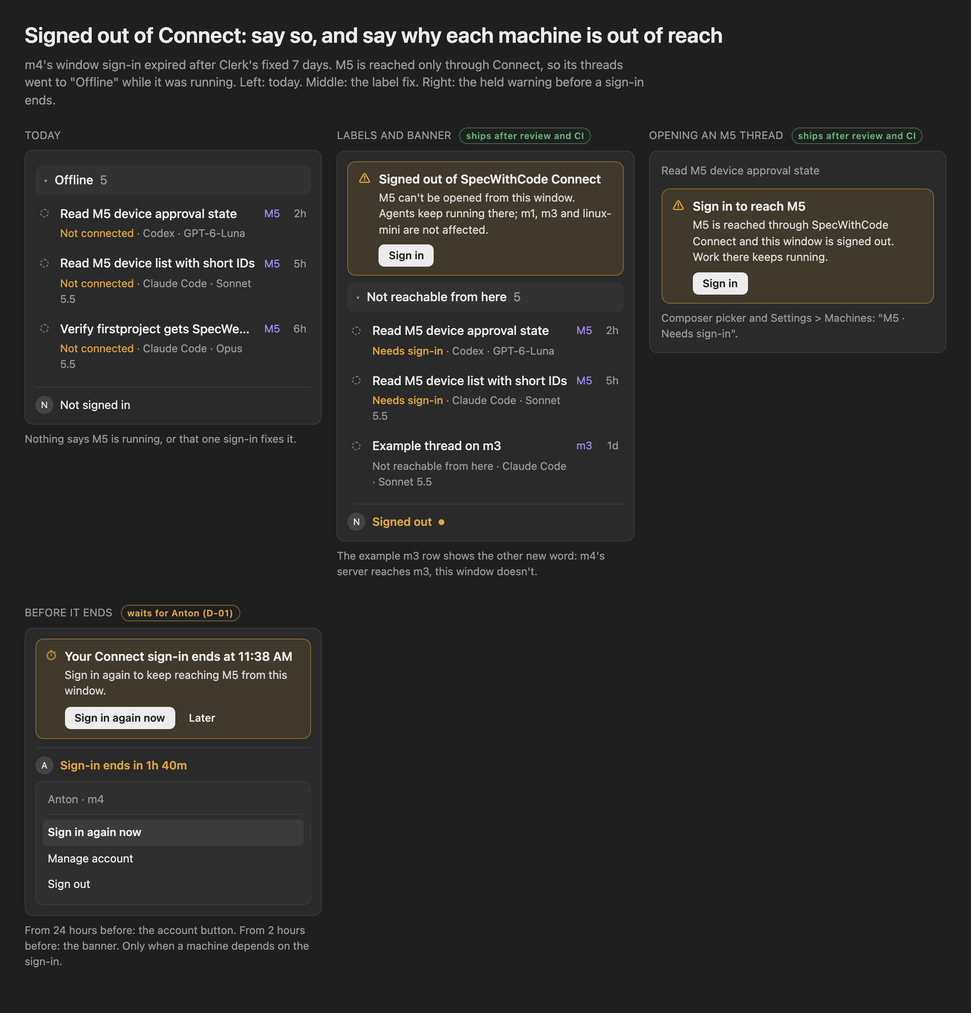
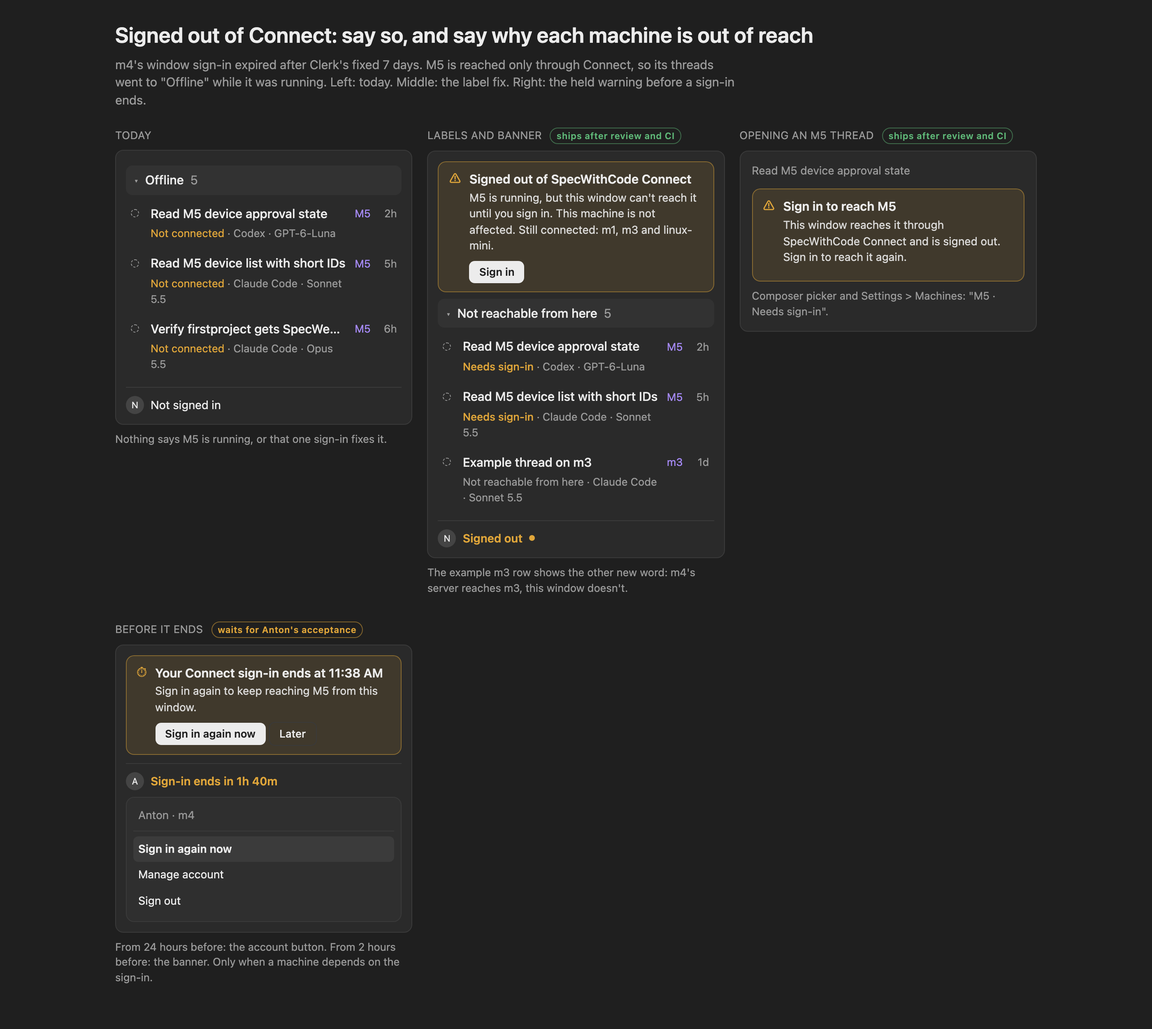
1417: answer spec review round 1, tasks 1-4 done

diff --git a/.specweave/increments/1417-signed-out-of-connect-say-so-warn-before-it-ends-and-label-machines-by-the-real-reason/mockups/signed-out.html b/.specweave/increments/1417-signed-out-of-connect-say-so-warn-before-it-ends-and-label-machines-by-the-real-reason/mockups/signed-out.html
@@ -85,7 +85,7 @@
           <span class="ic">⚠</span>
           <div>
             <b>Signed out of SpecWithCode Connect</b>
-            <p>M5 can't be opened from this window. Agents keep running there; m1, m3 and linux-mini are not affected.</p>
+            <p>M5 is running, but this window can't reach it until you sign in. This machine is not affected. Still connected: m1, m3 and linux-mini.</p>
             <span class="btn">Sign in</span>
           </div>
         </div>
@@ -106,8 +106,7 @@
           <span class="ic">⚠</span>
           <div>
             <b>Sign in to reach M5</b>
-            <p>M5 is reached through SpecWithCode Connect and this window is signed out. Work there keeps running.</p>
-            <span class="btn">Sign in</span>
+            <p>This window reaches it through SpecWithCode Connect and is signed out. Sign in to reach it again.</p>
           </div>
         </div>
         <div class="note">Composer picker and Settings &gt; Machines: "M5 · Needs sign-in".</div>
@@ -115,7 +114,7 @@
     </figure>
 
     <figure class="held">
-      <figcaption>Before it ends <span class="tag wait">waits for Anton (D-01)</span></figcaption>
+      <figcaption>Before it ends <span class="tag wait">waits for Anton's acceptance</span></figcaption>
       <div class="pane">
         <div class="banner" role="status">
           <span class="ic">⏱</span>

diff --git a/.specweave/increments/1417-signed-out-of-connect-say-so-warn-before-it-ends-and-label-machines-by-the-real-reason/spec.md b/.specweave/increments/1417-signed-out-of-connect-say-so-warn-before-it-ends-and-label-machines-by-the-real-reason/spec.md
@@ -6,59 +6,106 @@ On November 18, 2026 at 11:38 AM the m4 window lost its SpecWithCode Connect sig
 
 What happened, from Clerk's records and the window's traces (`reports/2026-11-18-signout-findings.md`):
 
-1. **Expiry, not a sign-out, revoke, update or device-approval change.** The window's Clerk session was created November 11 at 11:38:00 AM and ended at 11:38:00 AM today with status `expired`. Every session on the instance has `expire_at = created + 7 days`: the Hobby plan's fixed maximum lifetime. The account has no `ended`, `revoked` or `removed` sessions, so `ConnectSessionGuard`'s `signOut()`, a device removal (1406, 1416) and the 1.0.357 update did not end it. Short-lived tokens refresh silently today; nothing can stretch a session past its maximum lifetime.
-2. **Why only M5.** 22 seconds after expiry (11:38:22 AM) the window's attempt to M5 was refused with `ConnectionBlockedError{reason:"authentication"}`, "Your cloud sign-in changed. Sign in again to authorize the environment." M5 is reached from this window only through the Connect relay (`RelayConnectionTarget`). m1, m3 and linux-mini are also saved with a direct paired route (`BearerConnectionTarget`, a stored credential over Tailscale or the LAN), which needs no Connect sign-in. It is not the `identity-mismatch` pattern.
-3. **Why "Offline / Not connected".** A blocked connection stops retrying, its phase becomes `error`, its reach state `stopped`, and `hostDownWord` maps `stopped` to "Not connected". The Threads panel groups every down host's threads under "Offline". Nothing on the row says the fix is one sign-in.
-4. **It will happen again every week on every window.** The account has 11 more Electron window sessions; one ends today at 2:43 PM and five on November 19. Each window signs out on its own 7-day clock.
+1. **Expiry, by strong inference.** No trace names the window's Clerk session, so this is inference, not proof. The session that fits is `sess_3Ly8jIf9…`: created November 11 at 11:38:00 AM, `expired` at 11:38:00 AM today, last active 11:32:51 AM. M5 RPCs succeed until 11:36:38 AM, and the refusal lands at 11:38:22 AM. Every session on the instance has `expire_at = created + 7 days`: the Hobby plan's fixed maximum lifetime. The account has no `ended`, `revoked` or `removed` sessions. That rules out `ConnectSessionGuard`'s `signOut()`, assuming Clerk records a programmatic sign-out as `ended`. It also rules out a device removal (1406, 1416) and the 1.0.357 update. Two sessions stay unexplained:
+   - a second Mac Electron session (`sess_3Ly8j3on…`, last active 8:50 AM) expired two seconds earlier;
+   - a new Mac Electron session (`sess_3MHuSLYz…`) signed in at 11:36:52 AM and was last active at 11:38:21 AM. It is not this window, which stayed signed out. Which window it is remains unknown.
+2. **The 22 seconds.** Clerk noticed the expiry on its next token refresh and flipped the window to signed out. `ManagedRelayAuthProvider` then cleared the relay account, which emits `credentials-changed`. The supervisor replaced the live relay lease (`supervisor.ts:704`), and the new attempt was refused with `ConnectionBlockedError{reason:"authentication"}`: "Your cloud sign-in changed. Sign in again to authorize the environment."
+3. **Why only M5.** M5 is reached from this window only through the Connect relay (`RelayConnectionTarget`). m1, m3 and linux-mini are also saved with a direct paired route (`BearerConnectionTarget`, a stored credential over Tailscale or the LAN), which needs no Connect sign-in. A learned bearer route can also borrow the Connect credential (`authorization: "studio-connect"`, `routes.ts:248`) and dies with the session the same way. It is not the `identity-mismatch` pattern.
+4. **Why "Offline / Not connected".** A blocked connection stops retrying, its phase becomes `error`, its reach state `stopped`, and `hostDownWord` maps `stopped` to "Not connected". The Threads panel groups every down host's threads under "Offline". Nothing on the row says the fix is one sign-in.
+5. **It will happen again every week on every window.** The account has 11 more active Electron window sessions; one ends today at 2:43 PM and four on November 19. Each window signs out on its own 7-day clock.
 
-Side findings, handed to their owners: linux-mini is `grant_revoked` in the fleet yet the window still connects by bearer (device trust, 1416); one of m1's saved bearer routes fails with "The environment credential is invalid." every attempt while another works; the window's first relay attempt at start can be refused with "sign-in changed" for about one second before the session activates.
+Side findings, handed to their owners:
+- linux-mini is `grant_revoked` in the fleet, yet the window still connects by bearer (device trust, 1416).
+- One of m1's saved bearer routes fails with "The environment credential is invalid." on every attempt, while another works.
+- At start, the window's first relay attempt is refused with "sign-in changed" for about a second, before Clerk hands the session to the relay client (AC-02 keeps that from reading as a sign-out).
 
 ## Scope
 
 In:
 
 1. **Labels (ship after review and green CI).** Every place that names a machine's state says the real reason: needs sign-in, not reachable from here, offline. A banner says the window is signed out and what that breaks, with a Sign in button.
-2. **Session behaviour (needs Anton's acceptance before release).** A warning before a sign-in ends with a one-click renew, no silent sign-out by `ConnectSessionGuard`, and the Clerk lifetime decision (D-01).
+2. **Session behaviour (needs Anton's acceptance before release).** A warning before a sign-in ends, a one-click renew, and no silent sign-out by `ConnectSessionGuard`. The lifetime stays Clerk's free 7 days (D-01).
 
-Out: device approval and the device list (1416); "Needs you" and blocked thread labels (1412); the Settings > Connect machine list `CloudEnvironmentConnectList.tsx` (1416 edits it); retry behaviour of any connection; re-pairing m1's stale route; letting a window reach relay-only machines through its own machine's Connect link (D-01 option C, a separate increment if chosen).
+Out:
+- Device approval and the device list (1416).
+- "Needs you" and blocked thread labels (1412).
+- The Settings > Connect machine list `CloudEnvironmentConnectList.tsx` (1416 edits it).
+- Retry behaviour and route choice of any connection, including a machine whose direct route only times out (see AC-02).
+- Re-pairing m1's stale route.
+- The phone apps: `apps/mobile` sets the flag (shared refusal code) but shows no new words. Phones get the same 7 days; that is a separate increment.
+- The CLI's OAuth credential and the server's environment link.
+- Letting a window reach relay-only machines through its own machine's Connect link (D-01 option C, a separate increment if chosen).
 
 ## Acceptance Criteria
 
 ### Labels
 
-- [ ] AC-01: A connection refused because this window has no Connect sign-in carries a structured flag (`connectSignInRequired` on `ConnectionBlockedError` and on the connection presentation), set only where the Connect session is missing, unavailable or changed. A machine's own credential refusal (m1's "environment credential is invalid", a revoked pairing, a reapproval) never sets it. No retry, backoff or route choice changes.
-- [ ] AC-02: A thread row, thread link chip and project thread card on a machine down for that reason read **Needs sign-in** instead of "Not connected" or "Host offline".
-- [ ] AC-03: A down machine that this machine's server reaches (the fleet snapshot says `reachable`) and that does not need a sign-in reads **Not reachable from here** instead of "Not connected", "Not answering" or "Host offline". With no fleet snapshot, today's words stay.
-- [ ] AC-04: Priority when several apply: "Different machine at address", then "Needs sign-in", then "Not reachable from here", then today's reach words. "No network" on this device keeps its own words.
-- [ ] AC-05: The Threads panel group that holds unreachable machines' threads is headed **Not reachable from here** instead of "Offline". Its key, order and collapse state stay the same.
-- [ ] AC-06: The chat banner of a thread on a machine that needs sign-in reads "Sign in to reach {machine}" with the line "{machine} is reached through SpecWithCode Connect and this window is signed out. Work there keeps running." The composer's machine picker and Settings > Machines say "Needs sign-in" for it.
-- [ ] AC-07: When this window is signed out and at least one saved machine needs sign-in, a banner at the top of the Threads panel says "Signed out of SpecWithCode Connect", names the machines it cuts off ("M5 can't be opened from this window"), says what still works ("Agents keep running there; m1, m3 and linux-mini are not affected" when those are connected), and has a **Sign in** button that opens the existing sign-in. With nothing cut off, no banner shows: Connect stays optional.
+- [ ] AC-01: A connection refused because this window has no Connect session carries a structured flag (`connectSignInRequired` on `ConnectionBlockedError` and on the connection presentation). It is set only when the window has no Connect session at refusal time: the cloud identity is `None`, or there is no Clerk token. These never set it:
+  - an account switch (the identity is another account's);
+  - a relay refusal of a token (`RelayAuthInvalidError`, proof expiry), which can mean a wrong account or a server fault. When the session has really ended, Clerk flips to signed out within one refresh and the next attempt is flagged;
+  - a machine's own credential refusal (m1's "environment credential is invalid", a revoked pairing, a reapproval).
+
+  No retry, backoff or route choice changes.
+- [ ] AC-02: A thread row, thread link chip and project thread card on a machine down for that reason read **Needs sign-in** instead of "Not connected" or "Host offline". The words show only once Clerk has loaded and says this window is signed out. While Clerk loads, or while a signed-in session is still being handed to the relay client, the flag is dropped and today's words stay, so a cold start never flashes "Needs sign-in". This covers attempts that end blocked. The driver reports a transient route error over a blocked one (`driver.ts:143`), so a machine whose direct route only times out keeps its retrying words. That is a stated limit, and none of today's machines is such a machine.
+- [ ] AC-03: A machine this window is still retrying ("Not answering", "Offline", "Can't reach host") that the primary's fleet snapshot lists as `reachable` reads **Not reachable from here**. These keep today's words:
+  - a stopped connection, which already knows its reason (needs an update, pair again, a refused credential);
+  - a machine nobody asked to connect;
+  - a saved machine missing from the fleet file, or no fleet at all;
+  - "No network" on this device.
+- [ ] AC-04: Priority when several apply:
+  1. "Different machine at address";
+  2. "Needs sign-in";
+  3. a stopped connection's own reason ("Needs update", "Not connected", pair again);
+  4. "Not reachable from here", for retrying states only;
+  5. today's reach words.
+- [ ] AC-05: Where threads are grouped by status, the group that holds unreachable machines' threads is headed **Not reachable from here** instead of "Offline". That is the Threads panel and the sidebar Chats list; `projectWorkspaceModel.ts` only orders groups and shows no heading. The group key, order and fold state stay "Offline".
+- [ ] AC-06: The chat banner of a thread on a machine that needs sign-in is a warning, not an error. It reads "Sign in to reach {machine}" with the line "This window reaches it through SpecWithCode Connect and is signed out. Sign in to reach it again." It has no Retry. These also say "Needs sign-in" for it:
+  - the composer's machine picker (`DraftMachinePicker.tsx`);
+  - Settings > Machines (`MachinesSettings.tsx`);
+  - the saved machine rows in Settings > Connections (`ConnectionsSettings.tsx`).
+
+  This machine never shows it.
+- [ ] AC-07: When Clerk says this window is signed out and at least one saved machine needs sign-in, a banner at the top of the Threads panel reads "Signed out of SpecWithCode Connect", with a **Sign in** button that opens the existing sign-in. Its body says only what the window knows:
+  - "{machine} is running, but this window can't reach it until you sign in" for a machine the fleet says is reachable;
+  - "{machines} can't be reached from this window until you sign in" for the others;
+  - "This machine is not affected.";
+  - "Still connected: {machines}." for machines with a live session now.
+
+  Names are joined in the window's language (`Intl.ListFormat`). With nothing cut off, no banner shows: Connect stays optional.
 - [ ] AC-08: The account button reads "Signed out" with a warning tone while a machine needs sign-in; otherwise it keeps "Not signed in".
-- [ ] AC-09: After signing in, machines that needed sign-in reconnect without a restart (the blocked connection wakes on `credentials-changed`), and the banner and labels clear.
+- [ ] AC-09: After signing in, machines that needed sign-in reconnect without restarting the app, and the banner and labels clear. The blocked connection wakes on `credentials-changed` (`supervisor.ts:1117`, test `supervisor.test.ts:1081`). An Electron sign-in may reload the window.
 - [ ] AC-10: New strings exist in all eight phrase files.
 
 ### Session behaviour (held for Anton's acceptance)
 
-- [ ] AC-11: From 24 hours before the window's Connect session ends (`session.expireAt`), the account button shows "Sign-in ends in {time}" and its menu offers **Sign in again now**. From 2 hours before, the Threads panel banner says "Your Connect sign-in ends at {time}. Sign in again to keep reaching {machines}." The warning shows only when a machine depends on the sign-in.
-- [ ] AC-12: **Sign in again now** renews without leaving the window signed out longer than the browser step: with multi-session on, the new session is made active before the old one ends; with single-session (today), it signs out and opens the sign-in in the same click, and a cancelled sign-in shows the signed-out banner (AC-07), never a silent state.
-- [ ] AC-13: `ConnectSessionGuard` never signs out by itself. When the relay refuses a fresh token twice, the window shows "SpecWithCode Connect did not accept this sign-in" with **Sign in again**; signing out stays a person's choice. A local key or proof error (`ManagedRelayDpopKeyLoadError`, proof creation) never counts as a refusal.
+- [ ] AC-11: From 24 hours before the window's Connect session ends (`session.expireAt`), the account button shows "Sign-in ends in {time}" and its menu offers **Sign in again now**. From 2 hours before, the Threads panel banner says "Your Connect sign-in ends at {time}. Sign in again to keep reaching {machines}." The warning shows only when a saved machine depends on the sign-in: it has no session-free route (a bearer route without `authorization: "studio-connect"`, SSH, or the primary), computed from its routes.
+- [ ] AC-12: **Sign in again now** renews without emptying the window. Today, signing out runs account cleanup, which removes relay environments and resets the token cache (`managedAuth.tsx:89`). A spike decides between two options before implementation:
+  - Clerk single-session re-sign-in without an explicit sign-out;
+  - a same-account renew that skips cleanup.
+
+  A cancelled renew leaves the saved machines in place and shows the signed-out banner (AC-07), never a silent or emptied state.
+- [ ] AC-13: `ConnectSessionGuard` never signs out by itself. When the relay refuses a fresh token twice, the window shows "SpecWithCode Connect did not accept this sign-in" with **Sign in again**; signing out stays a person's choice. A local key or proof error (`ManagedRelayDpopKeyLoadError`, proof creation) never counts as a refusal. That needs a structured marker on the discovery error (`errors.ts:112`), because both collapse into blocked `authentication` today.
 - [ ] AC-14: A token refresh that fails for a network reason keeps reading as reconnecting, never as signed out (regression test on today's mapping).
-- [ ] AC-15: The Clerk instance's maximum session lifetime matches D-01, set in the Clerk dashboard (Sessions). Only new sessions get it.
+- ~~AC-15: The Clerk instance's maximum session lifetime matches D-01.~~ Dropped by D-01: the lifetime stays 7 days.
 
 ## Approach
 
 Labels, in order:
 
 1. `packages/client-runtime/src/connection/model.ts`: `connectSignInRequired?: boolean` on `ConnectionBlockedError`, next to `reapprovalRequired`.
-2. Set it at the three Connect-session refusals: `authorization/service.ts` `sessionChanged()`; `apps/web/src/connection/platform.ts` `clerkToken` (no session, null token); `apps/mobile/src/connection/platform.ts`, the same two.
+2. Set it at the Connect-session refusals: `authorization/service.ts` `sessionChanged()` only when the current identity is `None`; `apps/web/src/connection/platform.ts` `clerkToken` (no session, null token); `apps/mobile/src/connection/platform.ts`, the same two.
 3. `connection/presentation.ts`: carry `connectSignInRequired: true` on a blocked presentation, as it carries `reapprovalRequired`.
-4. `apps/web/src/lib/machineStatus.ts`: one `HostDownNote` (`identity-mismatch | needs-sign-in | reachable-from-machine`) replaces the `identityMismatch` boolean in `hostDownWord`, `machineReachWords` and `identityMismatchShown`, with AC-04's priority. New words: NEEDS_SIGN_IN, REACHABLE_FROM_MACHINE.
-5. `apps/web/src/studio/unreachableHosts.tsx`: one `HostDownNoteContext` (environment id to note) built from the presentations (`connectSignInRequired`), the fleet snapshot's `identity-mismatch` and `reachable` statuses; `useHostIdentityMismatch` becomes `useHostDownNote`. Call sites: `ThreadsPane.tsx`, `ThreadLinkChip.tsx`, `ProjectThreadCards.tsx`, `projectThreadCards.ts`, `threadMachine.ts`, `ChatView.tsx`, `ProjectExecutionHistory.tsx`, `ProjectWorkspaceSurface.tsx`, `environmentUnavailableBanner.ts`, `shellModel.ts` `threadStatusWord`.
-6. Group heading: a display label for the `Offline` group key in `ThreadsPane.tsx`; the key stays.
-7. `SignedOutBanner` in the Threads panel and the account button tone, reusing `useStudioConnectAuthPrompt().openAuthPrompt`.
-8. Phrases in `apps/web/src/i18n/phrases/*.ts`.
+4. `apps/web/src/cloud/connectAccountState.ts`: an atom with Clerk's settled account state (`unknown | signed-in | signed-out`), set by `ManagedRelayAuthProvider`. `state/environments.ts` drops the flag from the projected connection unless the state is `signed-out`. Every label reads the projected list, so the startup race never shows.
+5. `apps/web/src/lib/machineStatus.ts`: a `HostDownNote` (`needs-sign-in | reachable-from-machine`) next to the existing identity-mismatch check, applied in `hostDownWord` and `machineReachWords` with AC-04's priority; `NEEDS_SIGN_IN_STATUS` in `machineStatus`, `savedMachineStatus` and `machineUnavailableTitle`.
+6. `apps/web/src/studio/unreachableHosts.tsx`: `HostDownNoteContext` and `FleetReachableContext`, built from the projected presentations and the primary fleet snapshot. Call sites: `ThreadsPane.tsx`, `ThreadLinkChip.tsx`, `ProjectThreadCards.tsx`, `projectThreadCards.ts`, `ChatView.tsx`, `environmentUnavailableBanner.ts`, `shellModel.ts` `threadStatusWord`.
+7. Group heading: `threadGroupHeading` in `shellModel.ts`, used by the Threads panel and `buildChatGroups`; the key stays.
+8. The signed-out banner (`signedOutBannerModel.ts`, `ConnectSignedOutBanner.tsx` behind the lazy `SignedOutBanner.tsx`) and the account button tone, reusing `useStudioConnectAuthPrompt().openAuthPrompt`.
+9. Phrases in `apps/web/src/i18n/phrases/*.ts`.
 
-Session behaviour (after D-01): read `useSession().session.expireAt` in `ConnectSidebarAccountMenu.tsx`; a renew action in the account menu; `ConnectSessionGuard.tsx` reports instead of `signOut()`; the Clerk dashboard change.
+Session behaviour (after acceptance):
+- read `useSession().session.expireAt` in `ConnectSidebarAccountMenu.tsx`;
+- add the renew action after the AC-12 spike;
+- make `ConnectSessionGuard.tsx` report instead of calling `signOut()`, with a marker in `errors.ts`.
 
 Rejected:
 
@@ -66,8 +113,13 @@ Rejected:
 - A new `MachineReachState` in the client runtime: every exhaustive switch, the mobile app and the Android port would change for a wording fix. The note lives in the web layer.
 - Keying "needs sign-in" on `blockedReason === "authentication"`: m1's stale bearer refusal has the same reason and is fixed by pairing again, not by signing in.
 - Retrying blocked relay connections on a timer: a missing sign-in never fixes itself, and the wake on `credentials-changed` already covers the fix.
+- Ranking a flagged refusal above a transient one in the driver, as `reapprovalRequired` is: it would stop retries of a direct route that may come back by itself. That is a retry change, out of scope.
+- A grace timer before showing "Needs sign-in": Clerk's own settled state is exact; a timer guesses.
 
-Risks: 1412 edits `shellModel.ts` and `ThreadsPane.tsx` (rebase after it merges); the fleet snapshot can be stale by one poll, so "Not reachable from here" can lag a machine going down by up to one fleet read.
+Risks:
+- 1412 edits `shellModel.ts` and `ThreadsPane.tsx`; rebase after it merges.
+- The fleet snapshot is polled every ten seconds, so "Not reachable from here" and "is running" can lag by one fleet read.
+- Down words wait out the 60-second reconnect grace (`reach.ts:18`) as today.
 
 ## Mockup
 
@@ -80,37 +132,35 @@ Adversarial reviewer: Muse Wonderful (`muse-wonder-full-1.0`, xhigh, full access
 ## Decisions
 
 ### Asked
-- D-01 How long a Connect sign-in lasts and how a window renews it → pending (Anton). Options: A, a paid Clerk Pro plan with a 90-day lifetime, plus AC-11 to AC-14; B, stay on the free plan's fixed 7 days, plus AC-11 to AC-14; C, B now and a separate increment where a window reaches its own machines through its machine's long-lived Connect link. Recommended: A.
+- D-01 How long a Connect sign-in lasts and how a window renews it → **stay on the free plan's fixed 7 days and warn** (Anton, November 18, 2026). AC-11 to AC-14 are in; AC-15 is dropped (no Clerk plan change). Offered and not chosen: a paid Clerk plan with a longer lifetime (Clerk documents a configurable lifetime on paid plans; the exact length was not checked), and a window reaching its own machines through its machine's Connect link.
 ### Defaulted (change any before sw-do)
 - D-02 The reason is a structured flag on the refusal, not error text → default.
 - D-03 The group heading reads "Not reachable from here" → default.
 - D-04 The signed-out banner shows only when a saved machine needs the sign-in → default.
-- D-05 Labels (AC-01 to AC-10) ship after review and green CI; AC-11 to AC-15 wait for Anton's acceptance → default.
+- D-05 Labels (AC-01 to AC-10) ship after review and green CI; AC-11 to AC-14 wait for Anton's acceptance → default.
+- D-06 "Needs sign-in" waits for Clerk's settled signed-out state (review round 1) → default.
 ### Open
-- D-01
+- none
 
 ## Tasks
 
 ### T-01 Flag Connect-session refusals and carry the flag to the presentation
-- AC: AC-01, AC-09 | Files: repositories/anton-abyzov/specwithcode/packages/client-runtime/src/connection/model.ts, repositories/anton-abyzov/specwithcode/packages/client-runtime/src/authorization/service.ts, repositories/anton-abyzov/specwithcode/packages/client-runtime/src/connection/presentation.ts, repositories/anton-abyzov/specwithcode/apps/web/src/connection/platform.ts, repositories/anton-abyzov/specwithcode/apps/mobile/src/connection/platform.ts, repositories/anton-abyzov/specwithcode/packages/client-runtime/src/connection/presentation.test.ts | Test: `node node_modules/vite-plus/bin/vp test run packages/client-runtime/src/connection/presentation.test.ts`
+- AC: AC-01, AC-09 | Files: repositories/anton-abyzov/specwithcode/packages/client-runtime/src/connection/model.ts, repositories/anton-abyzov/specwithcode/packages/client-runtime/src/authorization/service.ts, repositories/anton-abyzov/specwithcode/packages/client-runtime/src/authorization/layer.test.ts, repositories/anton-abyzov/specwithcode/packages/client-runtime/src/connection/presentation.ts, repositories/anton-abyzov/specwithcode/packages/client-runtime/src/connection/presentation.test.ts, repositories/anton-abyzov/specwithcode/apps/web/src/connection/platform.ts, repositories/anton-abyzov/specwithcode/apps/mobile/src/connection/platform.ts | Test: `node node_modules/vite-plus/bin/vp test run packages/client-runtime/src/connection/presentation.test.ts packages/client-runtime/src/authorization/layer.test.ts packages/client-runtime/src/connection/supervisor.test.ts`
 
 ### T-02 Say the real reason on rows, chips, cards, banners and pickers
-- AC: AC-02, AC-03, AC-04, AC-06 | Files: repositories/anton-abyzov/specwithcode/apps/web/src/lib/machineStatus.ts, repositories/anton-abyzov/specwithcode/apps/web/src/studio/unreachableHosts.tsx, repositories/anton-abyzov/specwithcode/apps/web/src/studio/shellModel.ts, repositories/anton-abyzov/specwithcode/apps/web/src/studio/projectThreadCards.ts, repositories/anton-abyzov/specwithcode/apps/web/src/components/ThreadLinkChip.tsx, repositories/anton-abyzov/specwithcode/apps/web/src/components/studio/ProjectThreadCards.tsx, repositories/anton-abyzov/specwithcode/apps/web/src/components/chat/threadMachine.ts, repositories/anton-abyzov/specwithcode/apps/web/src/components/chat/environmentUnavailableBanner.ts, repositories/anton-abyzov/specwithcode/apps/web/src/components/ChatView.tsx, repositories/anton-abyzov/specwithcode/apps/web/src/lib/machineStatus.test.ts | Test: `node node_modules/vite-plus/bin/vp test run apps/web/src/lib/machineStatus.test.ts apps/web/src/studio/shellModel.test.ts apps/web/src/components/chat/environmentUnavailableBanner.test.ts`
+- AC: AC-02, AC-03, AC-04, AC-06 | Files: repositories/anton-abyzov/specwithcode/apps/web/src/lib/machineStatus.ts, repositories/anton-abyzov/specwithcode/apps/web/src/lib/hostDownNoteWords.test.ts, repositories/anton-abyzov/specwithcode/apps/web/src/cloud/connectAccountState.ts, repositories/anton-abyzov/specwithcode/apps/web/src/cloud/connectAccountState.test.ts, repositories/anton-abyzov/specwithcode/apps/web/src/cloud/managedAuth.tsx, repositories/anton-abyzov/specwithcode/apps/web/src/state/environments.ts, repositories/anton-abyzov/specwithcode/apps/web/src/studio/unreachableHosts.tsx, repositories/anton-abyzov/specwithcode/apps/web/src/studio/shellModel.ts, repositories/anton-abyzov/specwithcode/apps/web/src/studio/projectThreadCards.ts, repositories/anton-abyzov/specwithcode/apps/web/src/components/ThreadLinkChip.tsx, repositories/anton-abyzov/specwithcode/apps/web/src/components/studio/ProjectThreadCards.tsx, repositories/anton-abyzov/specwithcode/apps/web/src/components/chat/environmentUnavailableBanner.ts, repositories/anton-abyzov/specwithcode/apps/web/src/components/ChatView.tsx | Test: `node node_modules/vite-plus/bin/vp test run apps/web/src/lib/hostDownNoteWords.test.ts apps/web/src/cloud/connectAccountState.test.ts apps/web/src/lib/machineStatus.test.ts apps/web/src/studio/shellModel.test.ts`
 
 ### T-03 Head the unreachable group "Not reachable from here"
-- AC: AC-05 | Files: repositories/anton-abyzov/specwithcode/apps/web/src/components/studio/shell/ThreadsPane.tsx | Test: `node node_modules/vite-plus/bin/vp test run apps/web/src/components/studio/shell/ThreadsPane.test.tsx`
+- AC: AC-05 | Files: repositories/anton-abyzov/specwithcode/apps/web/src/components/studio/shell/ThreadsPane.tsx, repositories/anton-abyzov/specwithcode/apps/web/src/studio/shellModel.ts | Test: `node node_modules/vite-plus/bin/vp test run apps/web/src/components/studio/shell/ThreadsPane.test.tsx apps/web/src/lib/hostDownNoteWords.test.ts`
 
 ### T-04 Signed-out banner and account button tone
-- AC: AC-07, AC-08, AC-10 | Files: repositories/anton-abyzov/specwithcode/apps/web/src/components/studio/shell/SignedOutBanner.tsx, repositories/anton-abyzov/specwithcode/apps/web/src/components/studio/shell/signedOutBanner.ts, repositories/anton-abyzov/specwithcode/apps/web/src/components/account/accountMenuModel.ts, repositories/anton-abyzov/specwithcode/apps/web/src/components/clerk/ConnectSidebarAccountMenu.tsx, repositories/anton-abyzov/specwithcode/apps/web/src/i18n/phrases | Test: `node node_modules/vite-plus/bin/vp test run apps/web/src/components/studio/shell/signedOutBanner.test.ts apps/web/src/components/account/accountMenuModel.test.ts`
+- AC: AC-07, AC-08, AC-10 | Files: repositories/anton-abyzov/specwithcode/apps/web/src/components/studio/shell/SignedOutBanner.tsx, repositories/anton-abyzov/specwithcode/apps/web/src/components/studio/shell/signedOutBannerModel.ts, repositories/anton-abyzov/specwithcode/apps/web/src/components/studio/shell/signedOutBannerModel.test.ts, repositories/anton-abyzov/specwithcode/apps/web/src/components/clerk/ConnectSignedOutBanner.tsx, repositories/anton-abyzov/specwithcode/apps/web/src/components/account/accountMenuModel.ts, repositories/anton-abyzov/specwithcode/apps/web/src/components/account/AccountMenu.tsx, repositories/anton-abyzov/specwithcode/apps/web/src/components/clerk/ConnectSidebarAccountMenu.tsx, repositories/anton-abyzov/specwithcode/apps/web/src/i18n/phrases | Test: `node node_modules/vite-plus/bin/vp test run apps/web/src/components/studio/shell/signedOutBannerModel.test.ts apps/web/src/components/account/accountMenuModel.test.ts apps/web/src/i18n`
 
 ### T-05 Headless proof of the signed-out window
-- AC: AC-02, AC-05, AC-07, AC-09 | Files: none in the repository; evidence in reports/ | Test: headless fixture with a relay-only machine and no Connect session, screenshots before and after sign-in
+- AC: AC-02, AC-05, AC-07, AC-09 | Files: none in the repository; evidence in reports/ | Test: headless fixture with a relay-only machine and no Connect session: screenshots of the signed-out panel, a signed-in cold start with no "Needs sign-in" flash, and the panel after sign-in
 
-### T-06 Warn before a sign-in ends and renew in one click (after D-01)
-- AC: AC-11, AC-12 | Files: repositories/anton-abyzov/specwithcode/apps/web/src/components/clerk/ConnectSidebarAccountMenu.tsx, repositories/anton-abyzov/specwithcode/apps/web/src/components/account/accountMenuModel.ts | Test: `node node_modules/vite-plus/bin/vp test run apps/web/src/components/account/accountMenuModel.test.ts`
+### T-06 Warn before a sign-in ends and renew in one click
+- AC: AC-11, AC-12 | Files: repositories/anton-abyzov/specwithcode/apps/web/src/components/clerk/ConnectSidebarAccountMenu.tsx, repositories/anton-abyzov/specwithcode/apps/web/src/components/account/accountMenuModel.ts, repositories/anton-abyzov/specwithcode/apps/web/src/cloud/managedAuth.tsx, repositories/anton-abyzov/specwithcode/packages/client-runtime/src/connection/routes.ts | Test: `node node_modules/vite-plus/bin/vp test run apps/web/src/components/account/accountMenuModel.test.ts`
 
-### T-07 No silent sign-out by the relay guard (after D-01)
-- AC: AC-13, AC-14 | Files: repositories/anton-abyzov/specwithcode/apps/web/src/cloud/ConnectSessionGuard.tsx | Test: `node node_modules/vite-plus/bin/vp test run apps/web/src/cloud/ConnectSessionGuard.test.tsx`
-
-### T-08 Clerk session lifetime (Anton, Clerk dashboard)
-- AC: AC-15 | Files: none | Test: a new session's `expire_at` minus `created_at` equals the chosen lifetime (Clerk Backend API, read-only)
+### T-07 No silent sign-out by the relay guard
+- AC: AC-13, AC-14 | Files: repositories/anton-abyzov/specwithcode/apps/web/src/cloud/ConnectSessionGuard.tsx, repositories/anton-abyzov/specwithcode/packages/client-runtime/src/connection/errors.ts | Test: `node node_modules/vite-plus/bin/vp test run apps/web/src/cloud/ConnectSessionGuard.test.ts`
